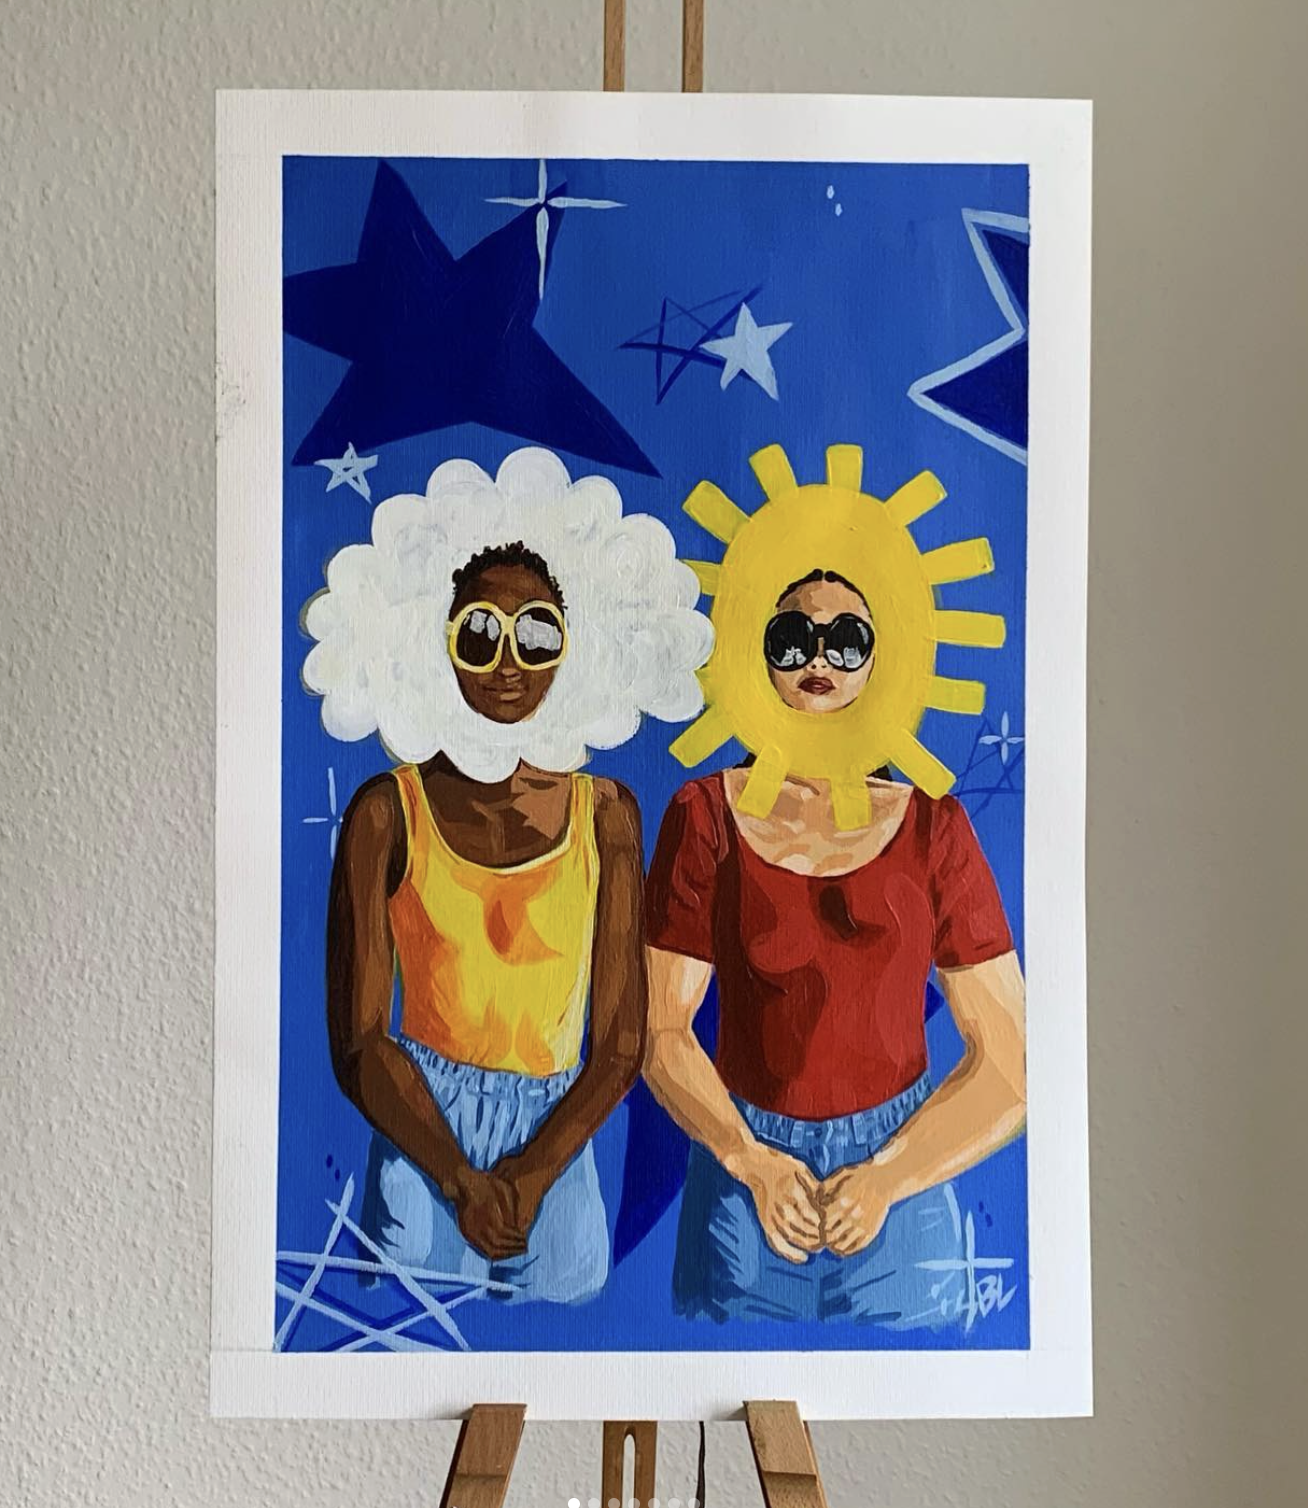
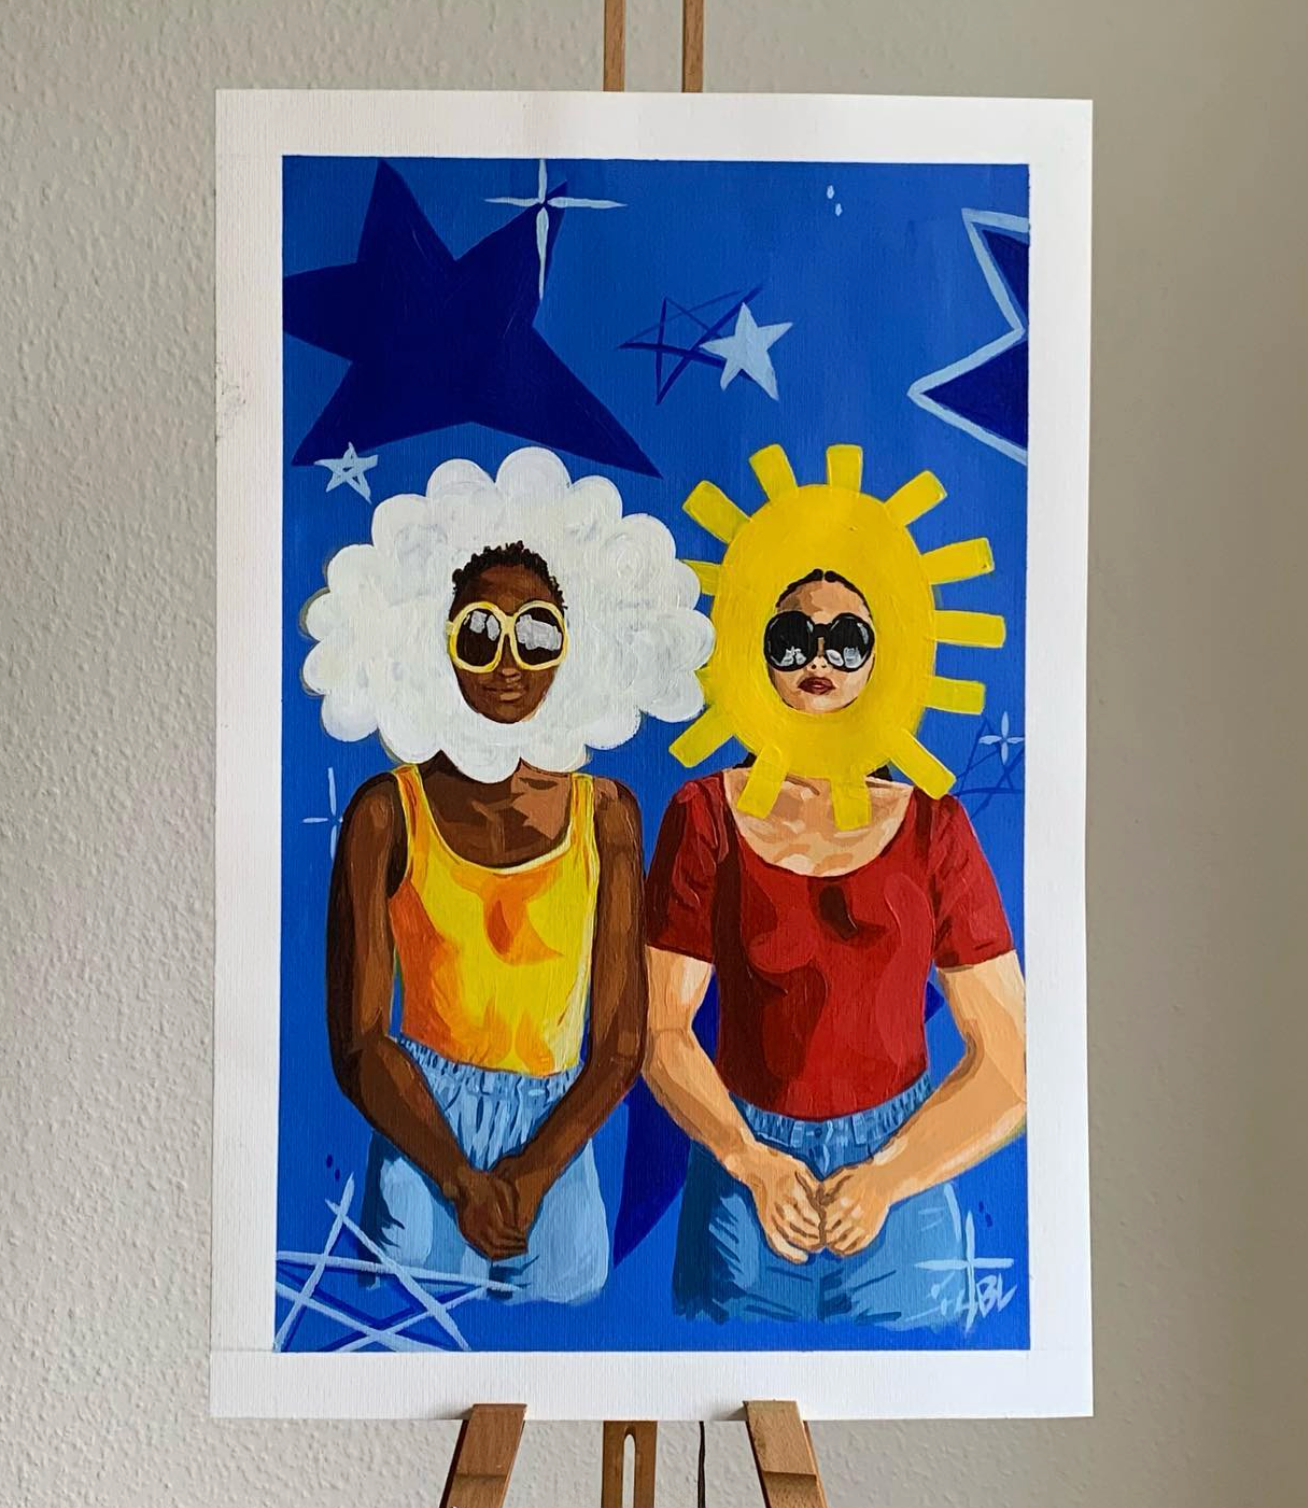
feat: implement IntersectionObserver for lazy loading images to enhance performance

diff --git a/src/compotents/LazyImage.jsx b/src/compotents/LazyImage.jsx
@@ -1,12 +1,36 @@
-import React, { useState } from "react";
+import React, { useState, useEffect, useRef } from "react";
 
-export default function LazyImage({ src, alt}) {
+export default function LazyImage({ src, alt }) {
+  const [isVisible, setIsVisible] = useState(false);
   const [isLoaded, setIsLoaded] = useState(false);
+  const imgRef = useRef();
+
+  useEffect(() => {
+    const observer = new IntersectionObserver(
+      (entries) => {
+        entries.forEach((entry) => {
+          if (entry.isIntersecting) {
+            setIsVisible(true);
+            observer.disconnect();
+          }
+        });
+      },
+      { threshold: 0.1 }
+    );
+
+    if (imgRef.current) {
+      observer.observe(imgRef.current);
+    }
+
+    return () => observer.disconnect();
+  }, []);
 
   return (
     <img
-      src={src}
+      ref={imgRef}
+      src={isVisible ? src : undefined} // billedet loader først når det er synligt
       alt={alt}
+      loading="lazy"
       className={`lazy-img ${isLoaded ? "loaded" : ""}`}
       onLoad={() => setIsLoaded(true)}
     />

diff --git a/src/index.css b/src/index.css
@@ -449,12 +449,12 @@ hr {
   height: 100%;
   object-fit: cover;
   opacity: 0;
-  transition: opacity 0.3s ease;
 }
 
 .lazy-img.loaded {
   opacity: 1;
   object-fit: cover;
+  transition: opacity 0.3s ease;
 }
 
 .page-playground .project-imgs {
